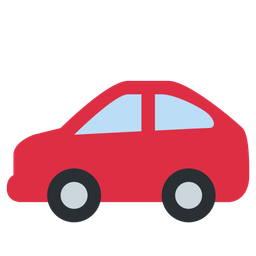
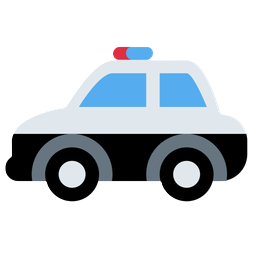
Update.

diff --git a/static_files/js/car.js b/static_files/js/car.js
@@ -3,7 +3,8 @@
 
 // 車アイコン定義
 const carIcon = L.icon({
-  iconUrl: 'images/car.png',
+  // iconUrl: 'images/car.png',
+  iconUrl: 'images/car2.png',
   iconSize: [32, 32],   // アイコンの表示サイズ（ピクセル）
   iconAnchor: [16, 16], // アイコンの基準点（中心）
 });
@@ -13,7 +14,7 @@ class Car {
     this.map = map;
     this.id = id;
     this.pos = { lat: startLatLng.lat, lng: startLatLng.lng };
-    this.marker = L.marker([this.pos.lat, this.pos.lng], {icon: carIcon }).addTo(map);
+    this.marker = L.marker([this.pos.lat, this.pos.lng], {icon: carIcon, zIndexOffset: 1000 }).addTo(map);
     this.marker.bindTooltip(() => `Car #${this.id}`, { permanent: false });
     this.route = [];       // 座標列 [{lat,lng},...]
     this.segmentIndex = 0; // 現在のセグメントの先頭点 index

diff --git a/send_request.py b/send_request.py
@@ -14,11 +14,11 @@ def go_to_nearest():
     return response.json()
 
 
-def go_to_target():
+def go_to_target(id):
     url = f"{BASE_URL}/api/set_next_action"
     payload = {
         "action": "go_to_target",
-        "target": 1,
+        "target": id,
     }
     response = requests.post(url, json=payload)
     return response.json()
@@ -34,6 +34,6 @@ def get_all_targets():
 
 
 if __name__ == "__main__":
-    pprint(go_to_nearest())
-    # pprint(go_to_target())
+    # pprint(go_to_nearest())
+    pprint(go_to_target(4))
     # pprint(get_all_targets())
